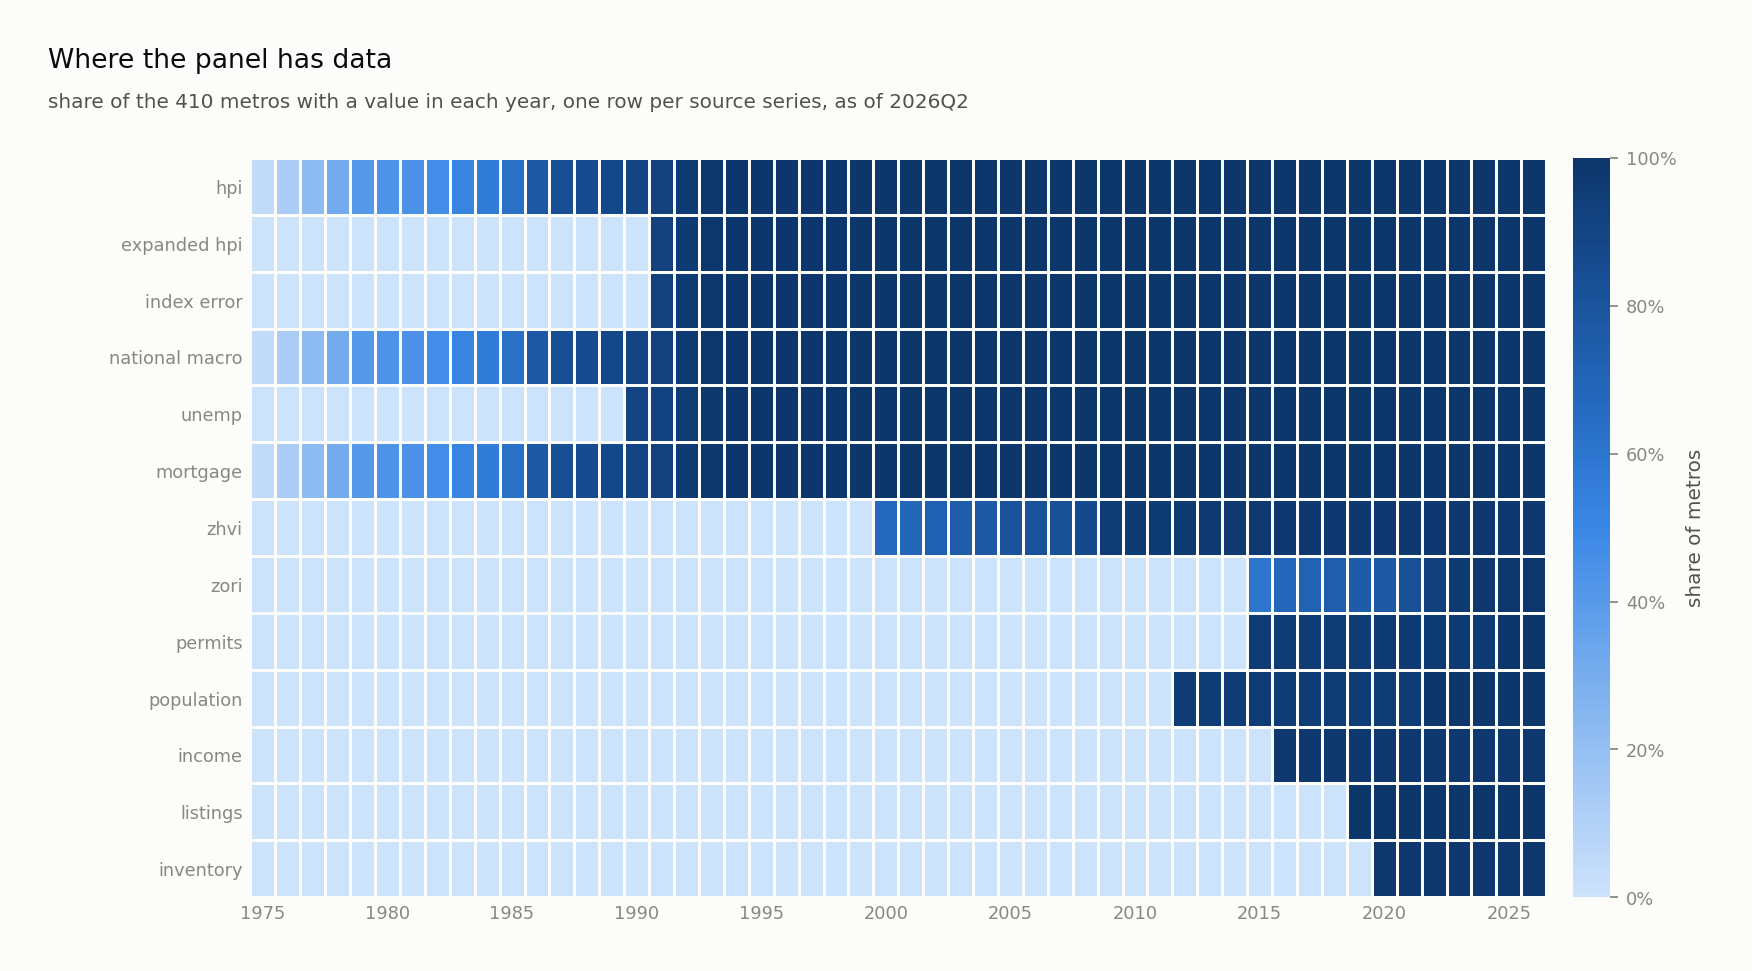
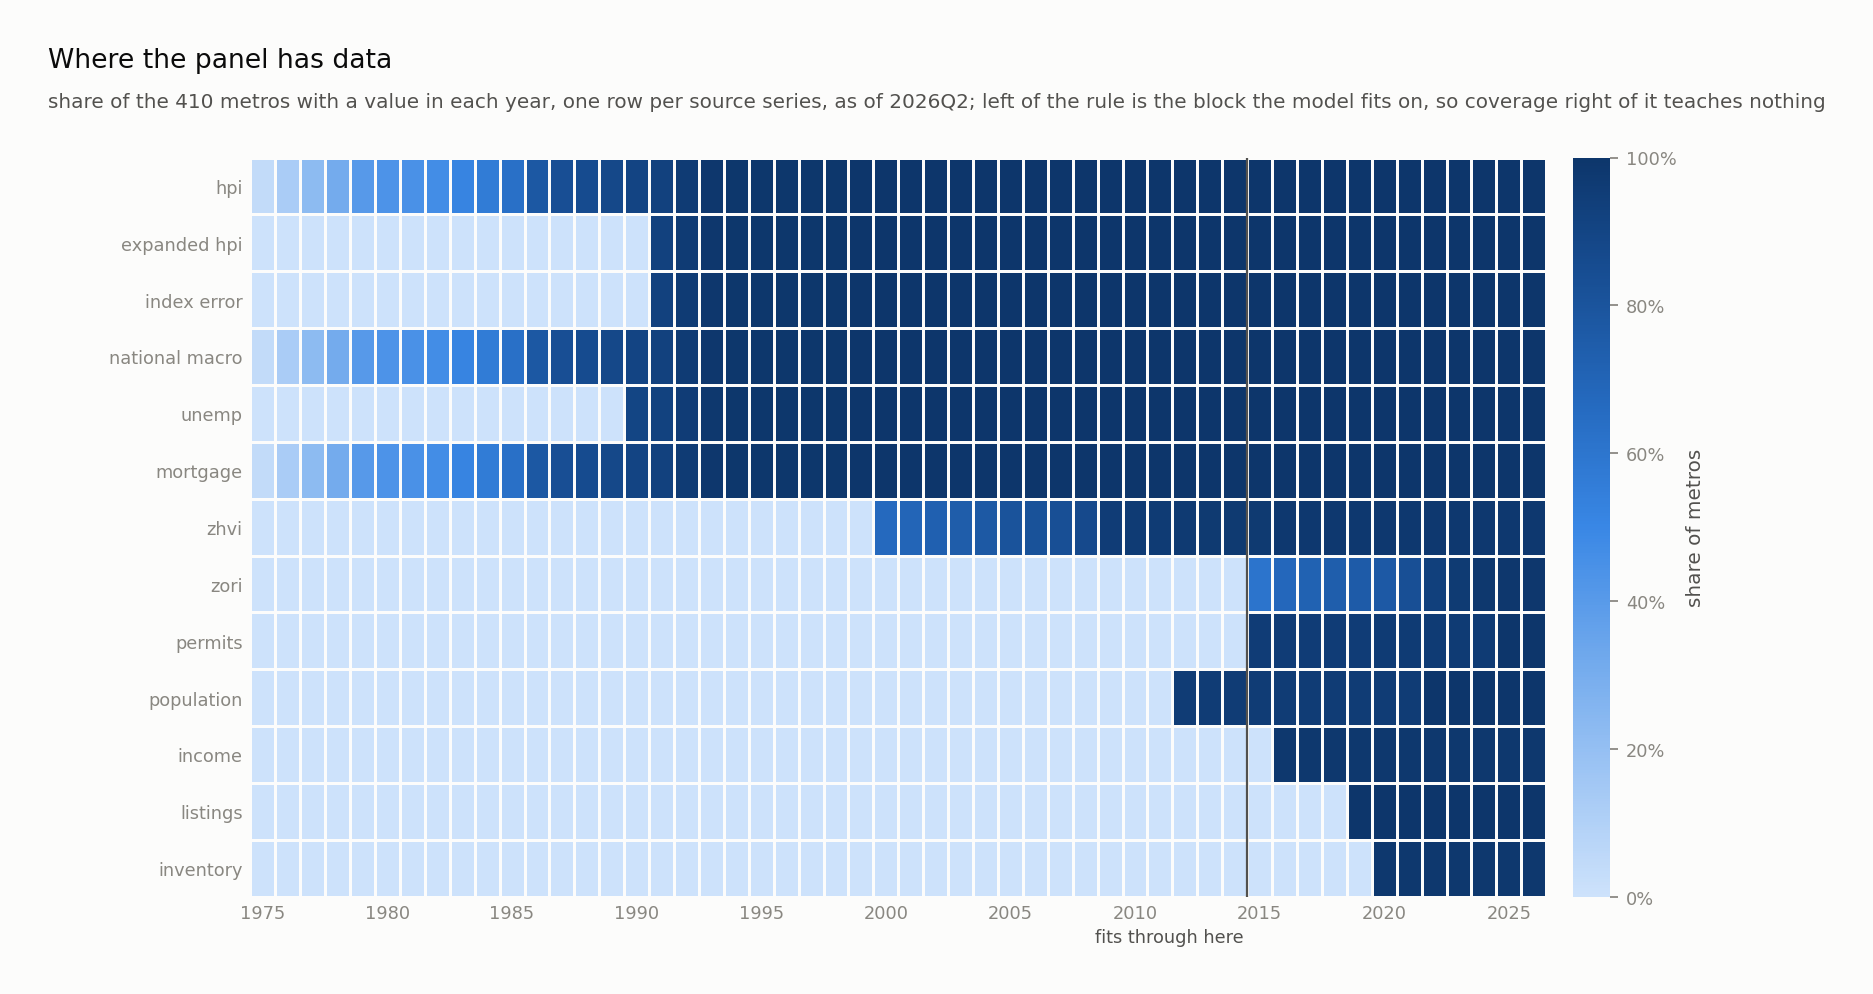
fix: the figures that draw the blocks were missing the one that matters
three figures drew train, cal and test and left out the line inside train.
the block a model FITS on ends 2014Q4, because the last three years of the
train block are held out for validation, and that is the date that decides
whether a feature can be learned at all. spec carries FIT_END and VAL_START
now so the panel figures can read them instead of train.py owning them alone.

03 was the worst of it. every panel had its own x range, so a feature that
starts in 2016 filled its axes exactly like one that starts in 1975 and the
whole late-arrival problem was invisible. one shared axis and the fitting
block shaded on each, and permits, population, migration and income are now
plainly empty where the model learns.

01 gets the same rule down its middle, and 05 gets the dashed fit line plus a
subtitle saying its axis is cut at 2005 while the train block goes back to the
panel start. the readme leans on 01 instead of explaining it.

no number moved: the panel hash is unchanged and every backtest csv is byte
identical.

Changed region(s): [[0.0616, 0.1545, 0.9863, 0.9578], [0.0308, 0.0309, 0.9863, 0.1236], [0.9555, 0.587, 0.9863, 0.6179]]

diff --git a/ml/src/loop/panel.py b/ml/src/loop/panel.py
@@ -577,7 +577,8 @@ def coverage_figure(panel):
     latest, metros = panel["quarter"].max(), panel["cbsa_code"].nunique()
     fig, ax = charts.figure(
         "Where the panel has data",
-        f"share of the {metros} metros with a value in each year, one row per source series, as of {latest}",
+        f"share of the {metros} metros with a value in each year, one row per source series, as of {latest}; "
+        f"left of the rule is the block the model fits on, so coverage right of it teaches nothing",
         size=(11, 6))
     years = table.columns.to_numpy(dtype=float)
     x = np.append(years, years[-1] + 1) - 0.5
@@ -585,6 +586,11 @@ def coverage_figure(panel):
     mesh = ax.pcolormesh(x, y, table.to_numpy(), cmap=charts.sequential_cmap(), vmin=0, vmax=100,
                          edgecolors=charts.SURFACE, linewidth=0.6)
     ax.invert_yaxis()
+    # the fitting block ends inside a year, so the rule sits on the cell edge
+    fit_year = int(spec.FIT_END[:4])
+    ax.axvline(fit_year + 0.5, color=charts.INK2, linewidth=1.0, zorder=5)
+    ax.text(fit_year + 0.35, len(table) + 0.55, "fits through here", ha="right", va="top",
+            fontsize=8, color=charts.INK2)
     ax.set_yticks(y[:-1] + 0.5, table.index)
     ticks = [int(v) for v in years if v % 5 == 0]
     ax.set_xticks(ticks, [str(v) for v in ticks])
@@ -685,13 +691,19 @@ def feature_trends_figure(panel):
     fig, axes = charts.figure(
         "How each feature moved across metros",
         f"median across metros as the line, interquartile range as the band, quarters with at least 50 metros, "
-        f"through {latest}; growth features in percent",
+        f"through {latest}; one shared axis, and the shaded years are the block the model fits on",
         size=(11, 2.9 * rows), rows=rows, cols=cols, gridspec_kw={"hspace": 0.62, "wspace": 0.32})
     fig.subplots_adjust(top=0.9)
     for ax in axes.ravel()[len(spec.FEATURES):]:
         ax.set_visible(False)
+    # one axis for every panel, and the fitting block shaded on each. with a
+    # free axis per feature every series filled its panel and the whole point,
+    # that a covariate arrives long after prices do, was invisible
+    span = (panel["date"].min(), panel["date"].max())
+    fit_end = spec.quarter_end(spec.FIT_END)
     for ax, column in zip(axes.ravel(), spec.FEATURES):
         stats = feature_bands(panel, column)
+        ax.axvspan(span[0], fit_end, color=charts.GRID, alpha=0.55, linewidth=0, zorder=0)
         scale = spec.pct if column in GROWTH else (lambda v: np.asarray(v, dtype=float))
         ax.fill_between(stats.index, scale(stats["lo"]), scale(stats["hi"]), color=charts.BAND, linewidth=0)
         ax.plot(stats.index, scale(stats["mid"]), color=charts.SERIES[0], linewidth=1.3)
@@ -699,9 +711,8 @@ def feature_trends_figure(panel):
         if column in GROWTH or column in RATES:
             ticks = ax.get_yticks()
             charts.pct_axis(ax, decimals=0 if np.allclose(ticks, np.round(ticks)) else 1)
-        if len(stats):
-            years = (stats.index[-1] - stats.index[0]).days / 365.25
-            ax.xaxis.set_major_locator(mdates.YearLocator(10 if years > 30 else 5 if years > 12 else 2))
+        ax.set_xlim(span)
+        ax.xaxis.set_major_locator(mdates.YearLocator(20))
         ax.xaxis.set_major_formatter(mdates.DateFormatter("%Y"))
     return charts.save(fig, "03_feature_trends")
 

diff --git a/ml/src/loop/baselines.py b/ml/src/loop/baselines.py
@@ -247,7 +247,8 @@ def _label_points(ax, points, gap, dx=6):
 def design_chart(data_date="2026Q2", start="2005Q1"):
     fig, ax = charts.figure(
         "How the backtest is split",
-        f"forecast origins by horizon and block; a line from the last origin of a block ends where its outcome lands; panel through {data_date}",
+        f"forecast origins by horizon and block; a line from the last origin of a block ends where its outcome lands; "
+        f"the train block reaches back to the panel start and the axis is cut at {spec.to_period(start).year}; panel through {data_date}",
         size=(10, 4.6),
     )
     colors = dict(zip(backtest.BLOCKS, charts.SERIES))
@@ -274,6 +275,15 @@ def design_chart(data_date="2026Q2", start="2005Q1"):
             outcome = spec.shift_quarter(q, h)
             ax.plot([_x(q), _x(outcome)], [y + 0.3, y + 0.3], color=colors[b], linewidth=0.8)
             ax.plot([_x(outcome)], [y + 0.3], marker="o", markersize=3, color=colors[b])
+    # the tail of the train block is the validation set, and the block a model
+    # fits on ends before it. that line decides what a feature can be taught,
+    # so it belongs on the figure that defines the split
+    ax.vlines(_x(spec.VAL_START) - 0.5, top - 1.7 - len(spec.HORIZONS) + 1, top + 0.3,
+              color=charts.INK2, linewidth=0.9, linestyle=(0, (4, 3)), zorder=4)
+    ax.text(_x(spec.VAL_START) - 0.8, top + 0.55, "fits to here", ha="right", va="center",
+            fontsize=8, color=charts.INK2)
+    ax.text(_x(spec.VAL_START) + 0.8, top + 0.55, "validation", ha="left", va="center",
+            fontsize=8, color=charts.INK2)
     gap_row = top - len(spec.HORIZONS)
     ax.annotate(
         "no origin here: the outcome would land in the next block",
@@ -287,8 +297,8 @@ def design_chart(data_date="2026Q2", start="2005Q1"):
     years = list(range(spec.to_period(start).year, end.year + 1, 3))
     ax.set_xticks(years)
     ax.set_xticklabels([str(v) for v in years])
-    ax.set_xlim(_x(start) - 0.3, _x(data_date) + 0.6)
-    ax.set_ylim(gap_row - 1.2, top + 0.9)
+    ax.set_xlim(_x(start) - 0.3, _x(data_date) + 2.2)
+    ax.set_ylim(gap_row - 1.2, top + 1.0)
     ax.grid(False)
     ax.spines["left"].set_visible(False)
     return charts.save(fig, "05_backtest_design")

diff --git a/ml/src/loop/spec.py b/ml/src/loop/spec.py
@@ -32,6 +32,12 @@ SEED = 20260915
 # different horizons, which is the horizon moving the outcome. nothing realized
 # after 2021 reaches a model that is judged on 2022 onward
 TRAIN_END = "2017Q4"
+# the tail of the train block is held out to choose epochs and inputs, so the
+# block a model actually FITS on ends the quarter before this. that is the
+# boundary that decides whether a feature can be learned at all, and it lives
+# here rather than in train.py because the panel figures draw it too
+VAL_START = "2015Q1"
+FIT_END = "2014Q4"
 CAL_START = "2018Q1"
 CAL_END = "2021Q4"
 TEST_START = "2022Q1"

diff --git a/ml/src/loop/train.py b/ml/src/loop/train.py
@@ -16,7 +16,7 @@ from loop import backtest as shared
 from loop import charts, nets, spec
 
 # the validation set is the tail of the train block by outcome quarter
-VAL_START = "2015Q1"
+VAL_START = spec.VAL_START
 MODELS = {"windowmlp": nets.WindowMLP, "seqgru": nets.SeqGRU}
 BATCH = 256
 EVAL_BATCH = 4096

diff --git a/ml/README.md b/ml/README.md
@@ -44,7 +44,7 @@ One row per metro per quarter. 410 metros, 1975Q1 to 2026Q2, 71,072 rows. FHFA a
 
 ![where the panel has data](results/figures/01_coverage.png)
 
-Coverage over the whole panel is the wrong measure. A feature is teachable only where the model is fitted, and the fitting block ends 2014Q4, not 2017Q4: `train.VAL_START` carves 2015 to 2017 out of the train block for validation. A column with no value in that block fails the `seen` test in `nets.moments`, and `encode` then zeroes both its value and its presence channel in every window, the test block included.
+The rule in that figure is `spec.FIT_END`, and it is the only date that matters: the train block runs to 2017Q4 but its last three years are held out for validation, so a model fits on outcomes through 2014Q4. A column with no value left of the rule fails the `seen` test in `nets.moments`, and `encode` then zeroes both its value and its presence channel in every window, the test block included.
 
 Fourteen columns are declared as features. Nine survive that test. Eight further columns ride along for the figures and the map without reaching a model, and why is in The Models.
 
